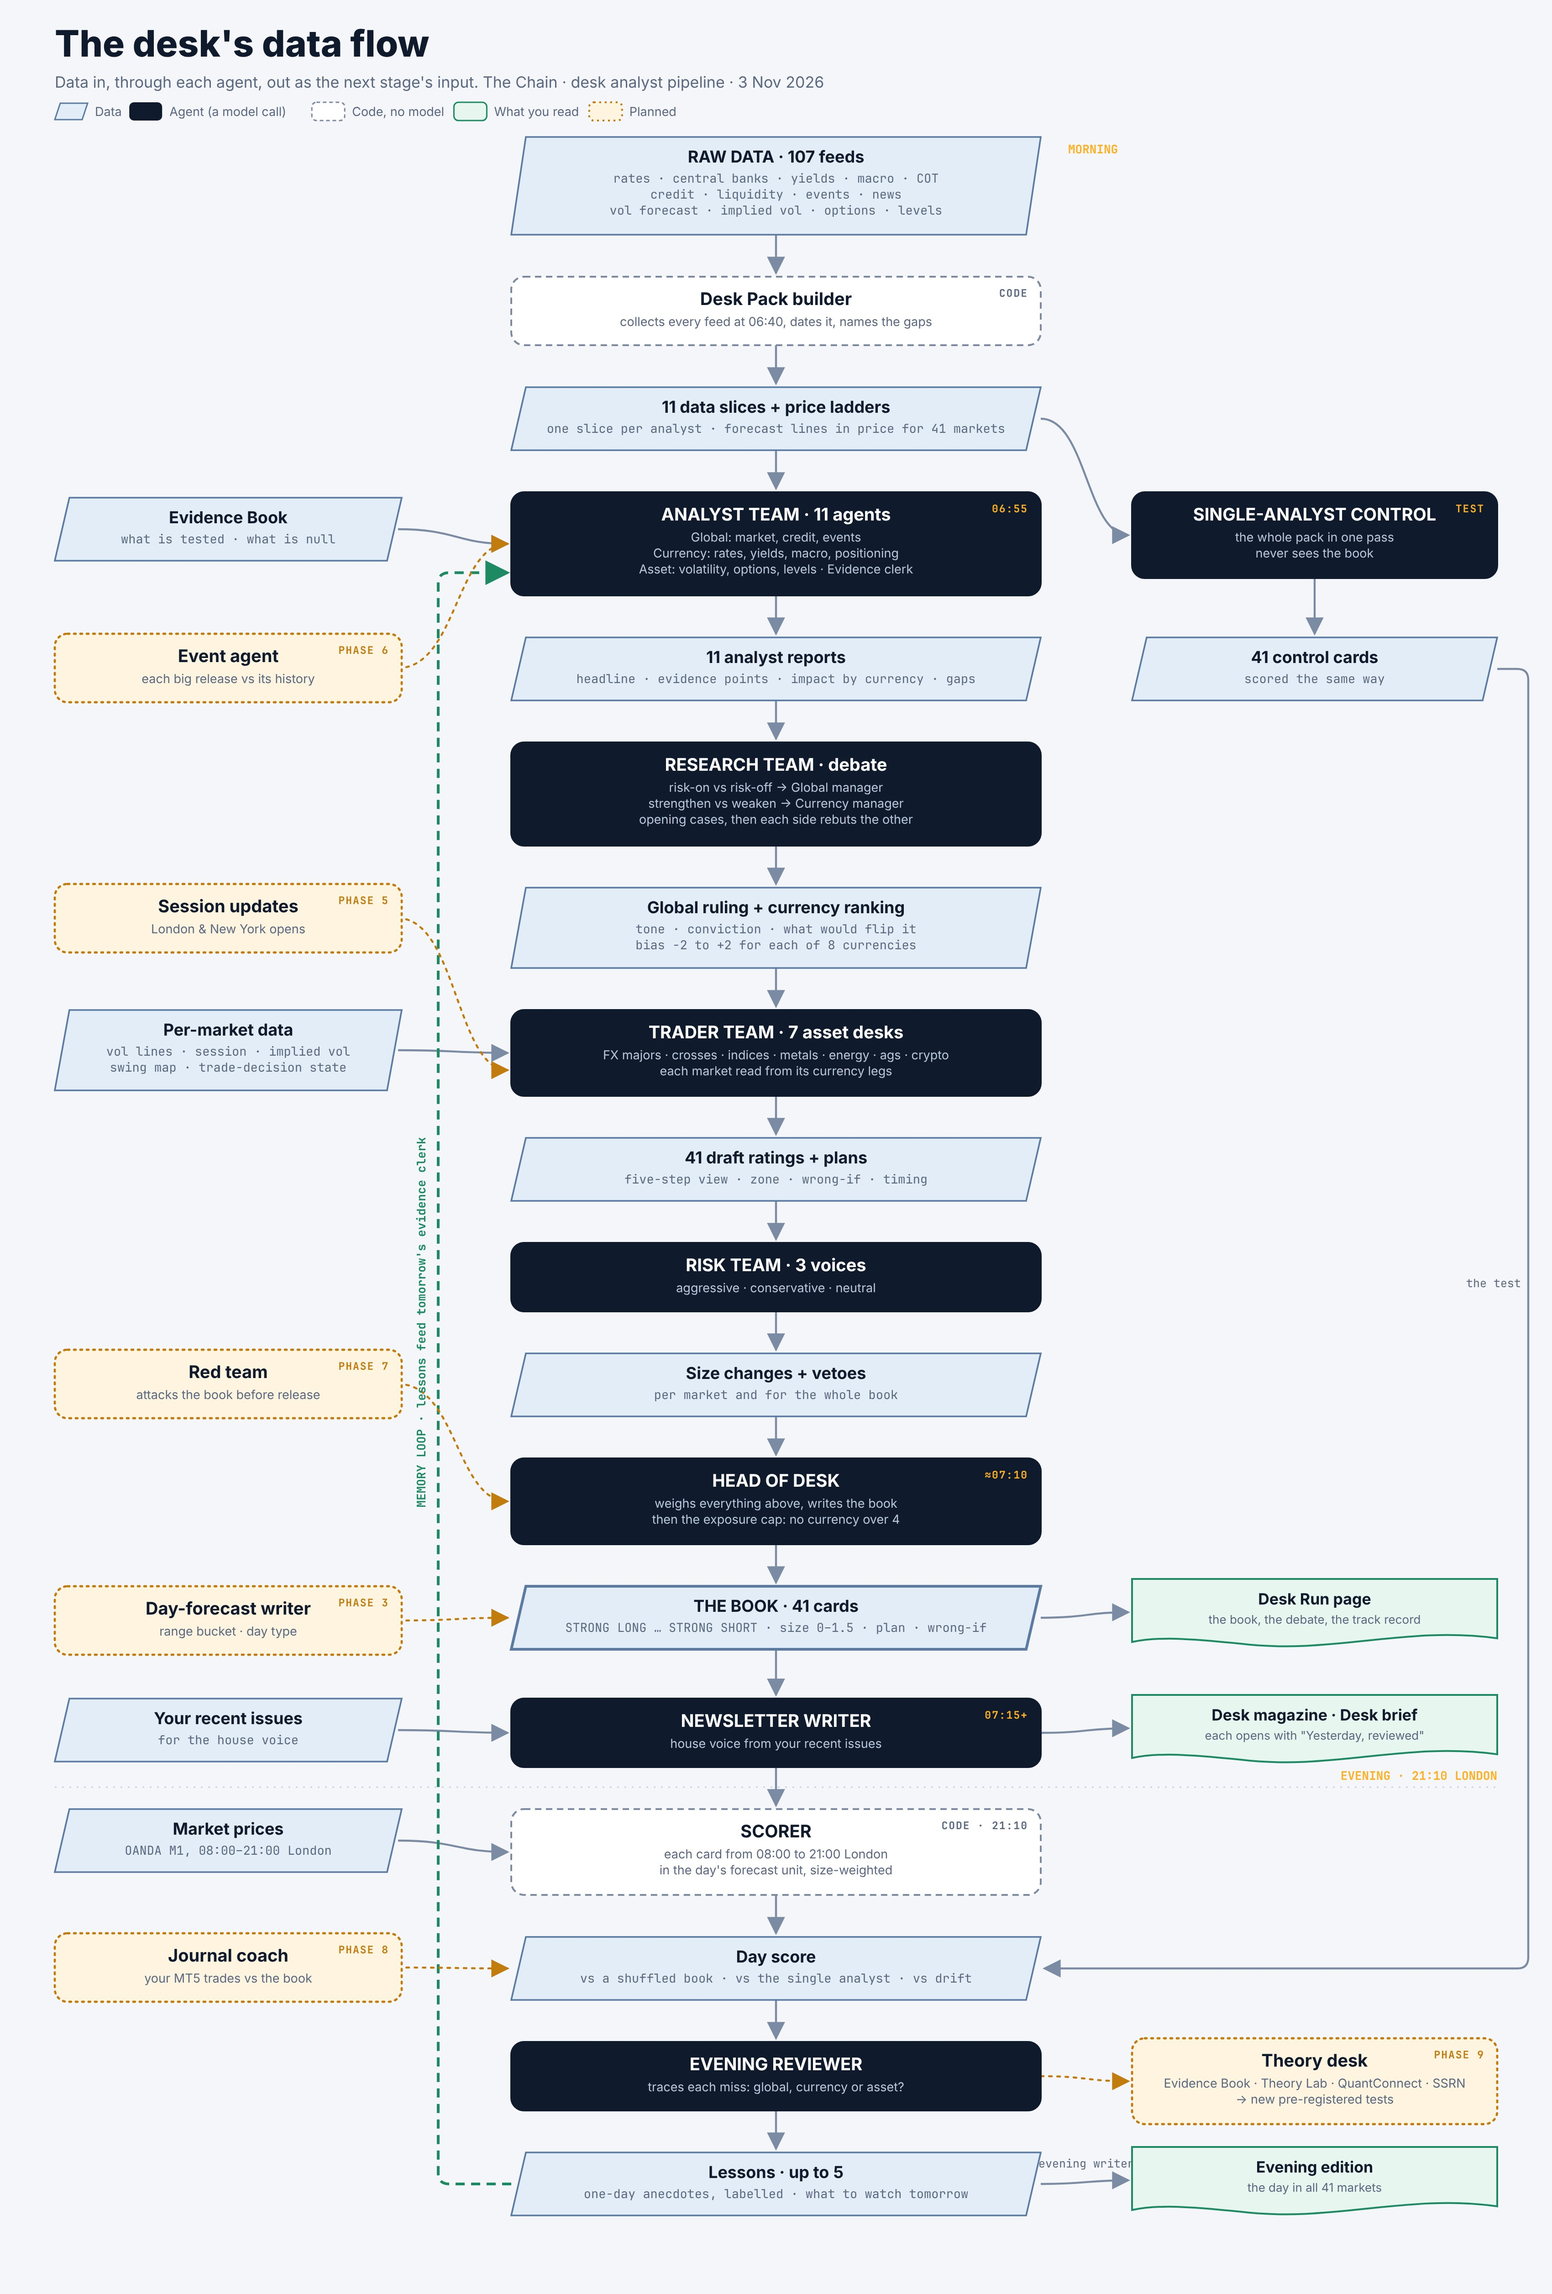
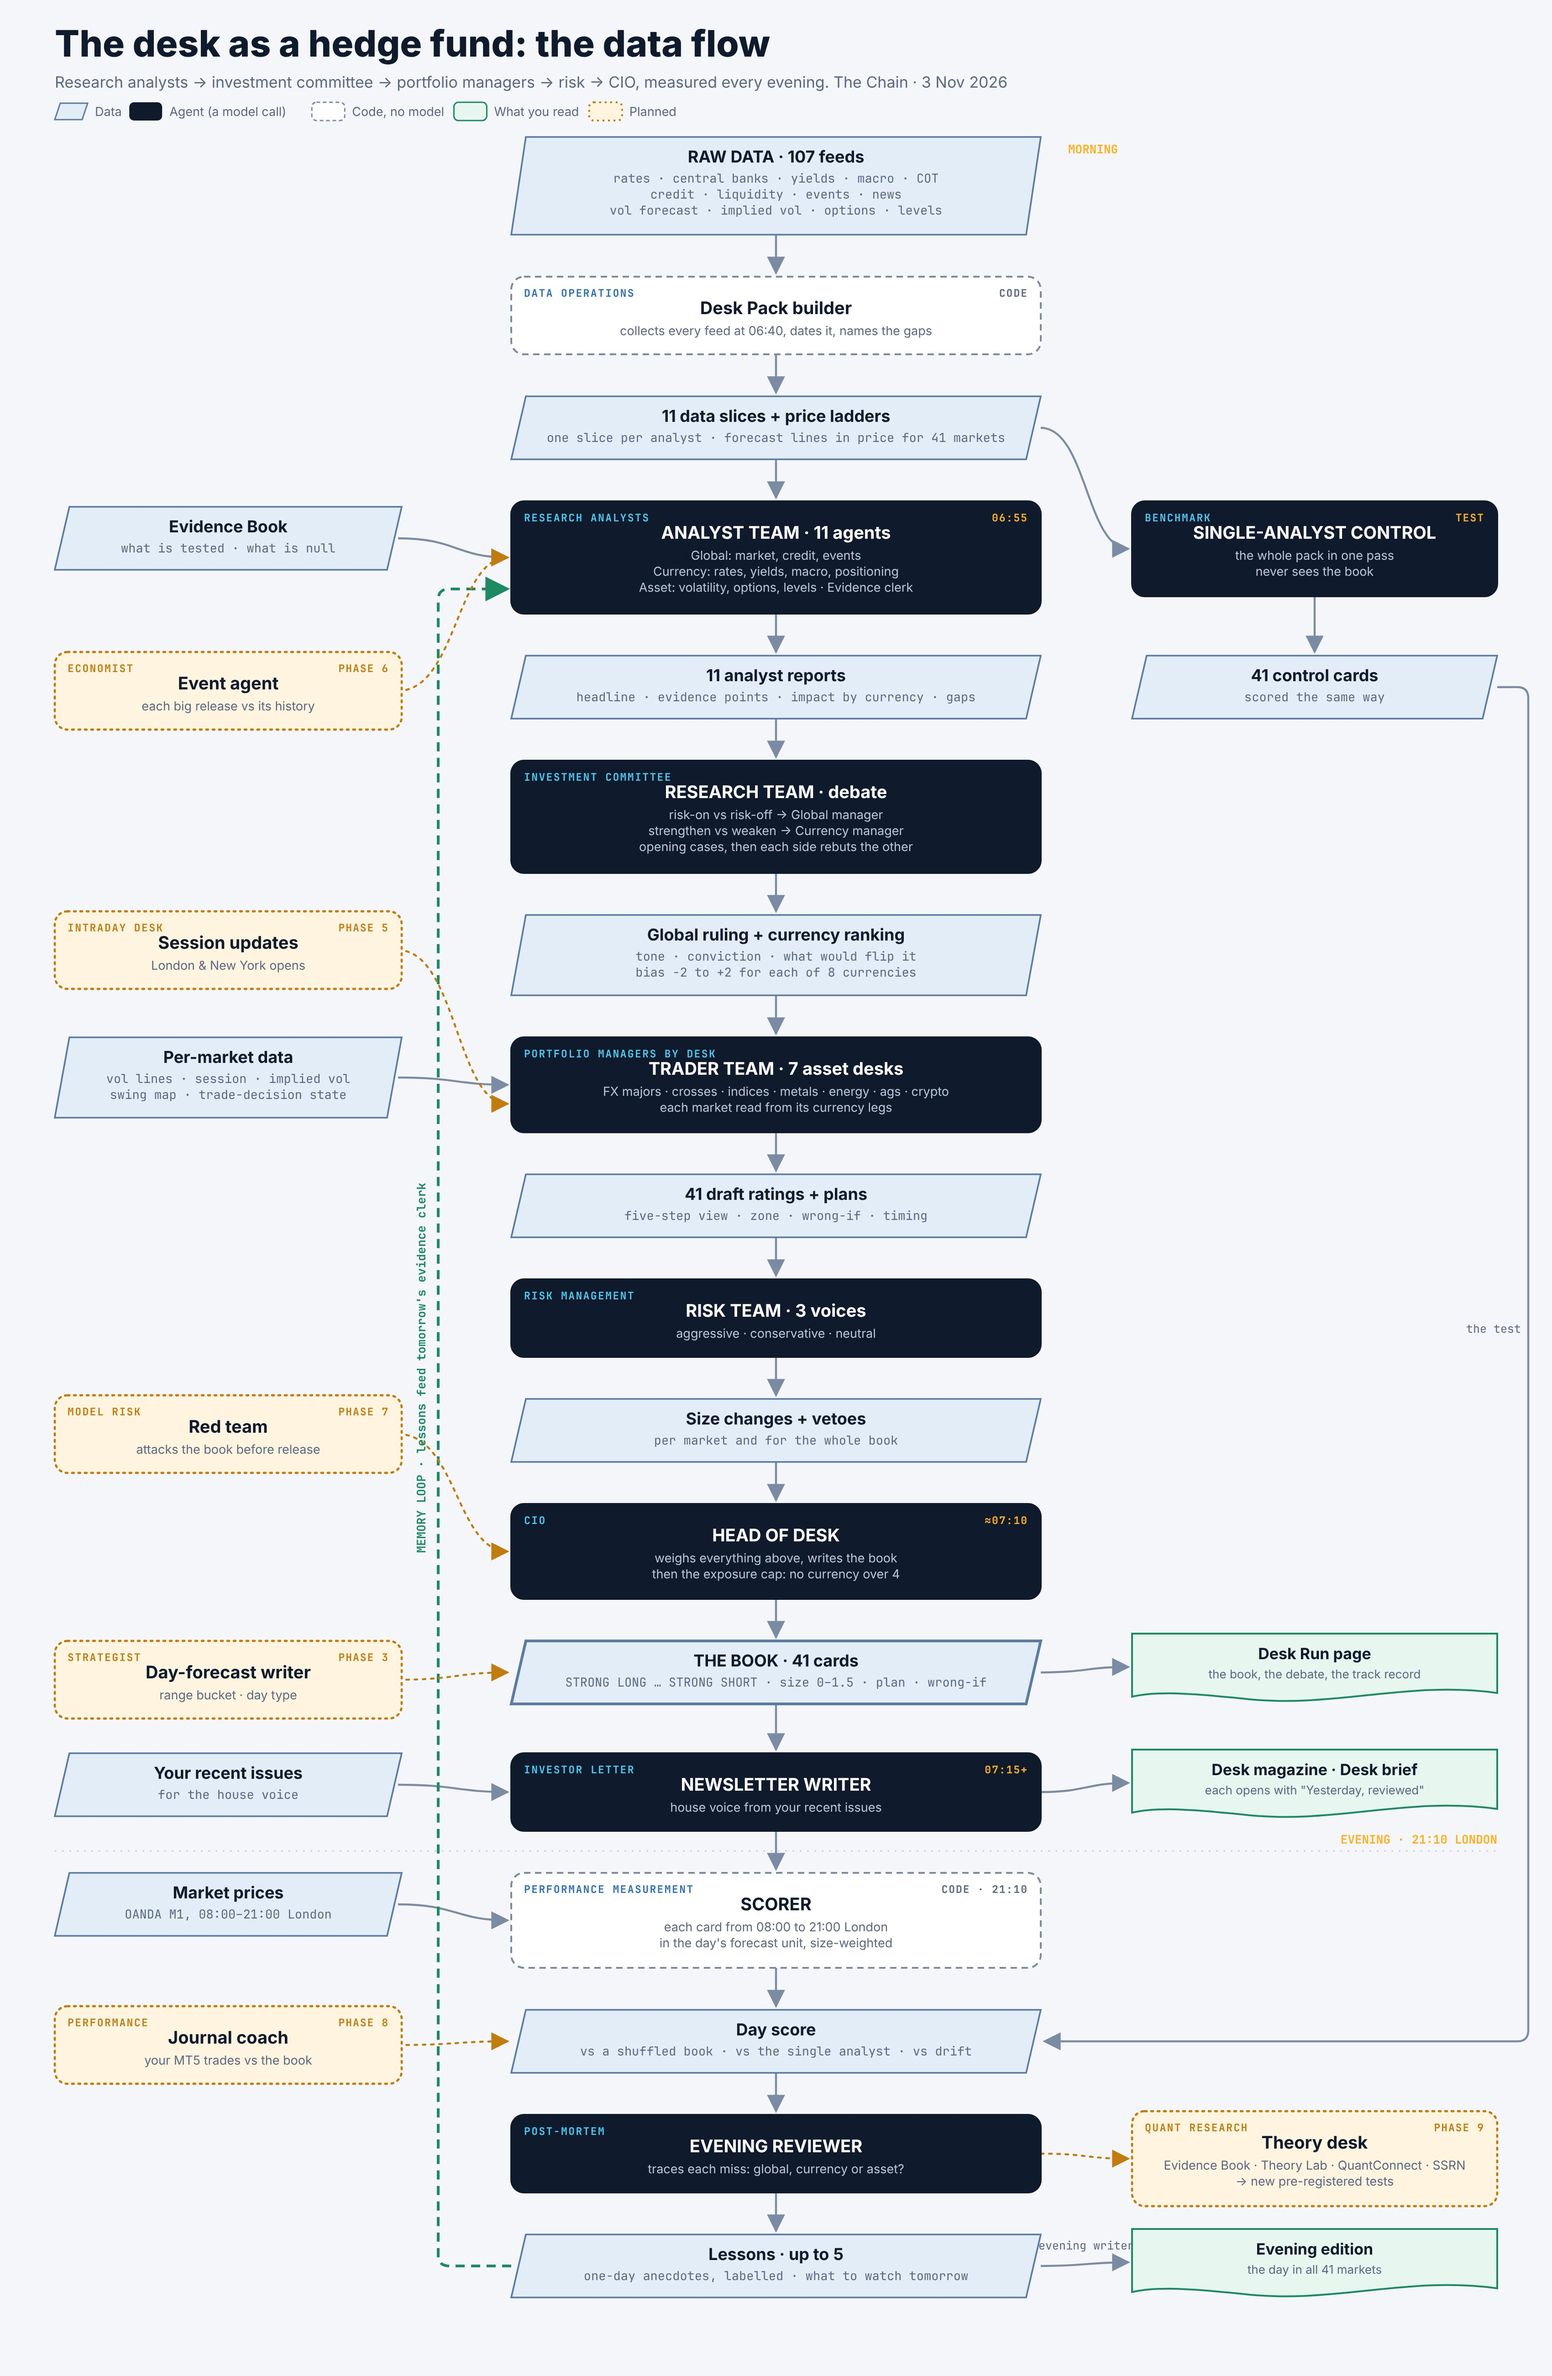
Data-flow chart: label each stage with its hedge fund role
Research analysts, investment committee, portfolio managers by desk, risk management, CIO, investor letter,
performance measurement, post-mortem and benchmark. Planned agents carry theirs too: economist, intraday desk,
model risk, strategist, performance coach and quant research.

Claude-Session: https://claude.ai/code/session_016iohmbH79RXfDMEkaBT9SD

diff --git a/plans/DESK_ANALYST_PIPELINE.md b/plans/DESK_ANALYST_PIPELINE.md
@@ -179,7 +179,7 @@ Analyst report (all Layer 1 skills):
 `AI_TASK_MODEL_DESK_HEAD=claude-opus-5-5` (or `_DESK_ANALYST`) on Railway. A task pin applies only on the provider it
 names, so a task routed to DeepSeek never receives an Anthropic model id.
 
-## 6b. The data flow, as a picture (2026-11-03)
+## 6b. The desk as a hedge fund: the data flow (2026-11-03)
 
 ![The desk's data flow](desk-data-flow.jpg)
 
